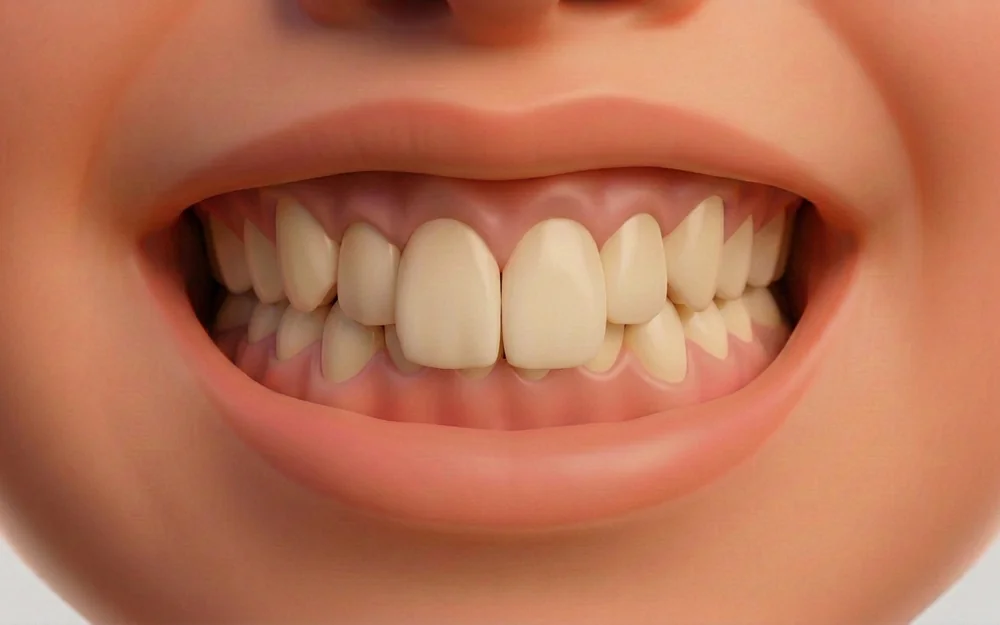
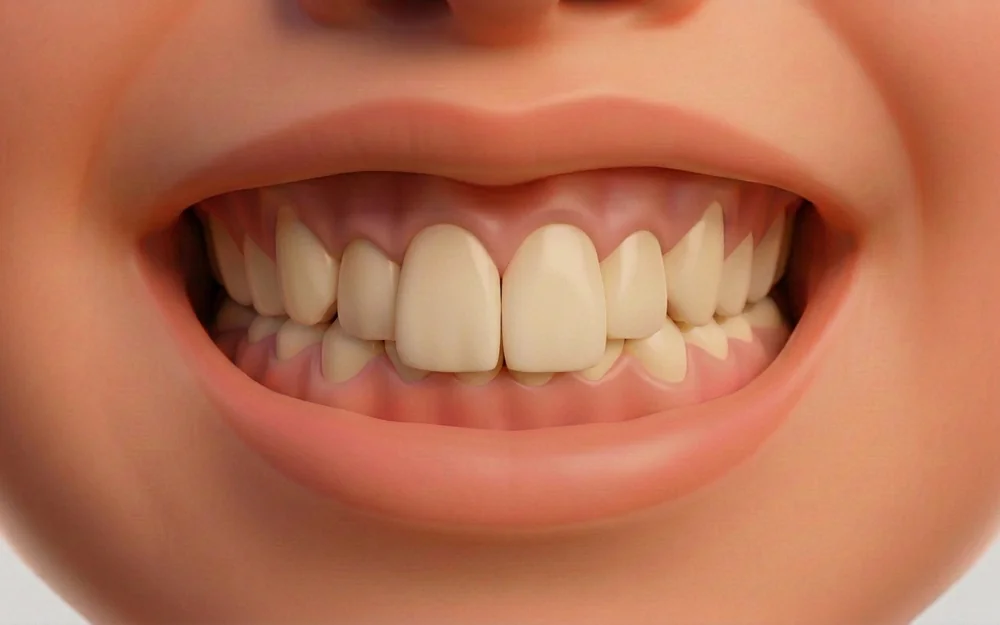
Morso profondo: tutta l'arcata superiore abbassata, denti nelle proporzioni originali
Claude-Session: https://claude.ai/code/session_01D1jf4jZQnPDjXWp1a4YFR6

diff --git a/guida-ortodonzia/malocclusioni/index.html b/guida-ortodonzia/malocclusioni/index.html
@@ -233,7 +233,7 @@ footer.foot a{color:#fff}
 <p>Sono spazi tra i denti. Uno spazio tra gli incisivi superiori è normale nei bambini piccoli e spesso si chiude da solo con l'eruzione dei canini. Negli adulti può dipendere dalla forma dei denti, da un frenulo labiale spesso o dalla perdita di denti.</p><figure class="fig3d"><img src="/img/guida/sorriso-diastema.webp" width="1000" height="625" alt="Spazio tra gli incisivi centrali superiori (diastema)" loading="lazy" decoding="async"><figcaption>Diastema: uno spazio evidente tra i due incisivi centrali superiori. <span class="tag3d">Immagine illustrativa</span></figcaption></figure>
 <h2 id="problemi-di-chiusura-in-verticale">Problemi di chiusura in verticale</h2>
 <h3 id="morso-profondo">Morso profondo</h3>
-<p>Chiudendo, i denti superiori coprono molto quelli inferiori. Nei casi marcati gli incisivi inferiori possono toccare la gengiva del palato.</p><figure class="fig3d"><img src="/img/guida/sorriso-morso-profondo.webp" width="1000" height="625" alt="Morso profondo: gli incisivi superiori coprono quasi completamente gli inferiori" loading="lazy" decoding="async"><figcaption>Morso profondo: chiudendo, gli incisivi superiori coprono quasi del tutto quelli inferiori. <span class="tag3d">Immagine illustrativa</span></figcaption></figure>
+<p>Chiudendo, i denti superiori coprono molto quelli inferiori. Nei casi marcati gli incisivi inferiori possono toccare la gengiva del palato.</p><figure class="fig3d"><img src="/img/guida/sorriso-morso-profondo.webp" width="1000" height="625" alt="Morso profondo: i denti superiori coprono buona parte degli inferiori" loading="lazy" decoding="async"><figcaption>Morso profondo: chiudendo, i denti superiori coprono buona parte di quelli inferiori. <span class="tag3d">Immagine illustrativa</span></figcaption></figure>
 <h3 id="morso-aperto">Morso aperto</h3>
 <p>I denti anteriori non si toccano quando la bocca è chiusa. Nei bambini è spesso legato ad abitudini come il dito in bocca o il ciuccio usato a lungo, o a una spinta della lingua tra i denti durante la deglutizione.</p><figure class="fig3d"><img src="/img/guida/morso-aperto.webp" width="1000" height="625" alt="Morso aperto anteriore, illustrazione 3D" loading="lazy" decoding="async"><figcaption>Morso aperto anteriore: a bocca chiusa gli incisivi superiori e inferiori non si toccano. <span class="tag3d">Illustrazione 3D schematica</span></figcaption></figure>
 <h2 id="problemi-trasversali">Problemi trasversali</h2>
